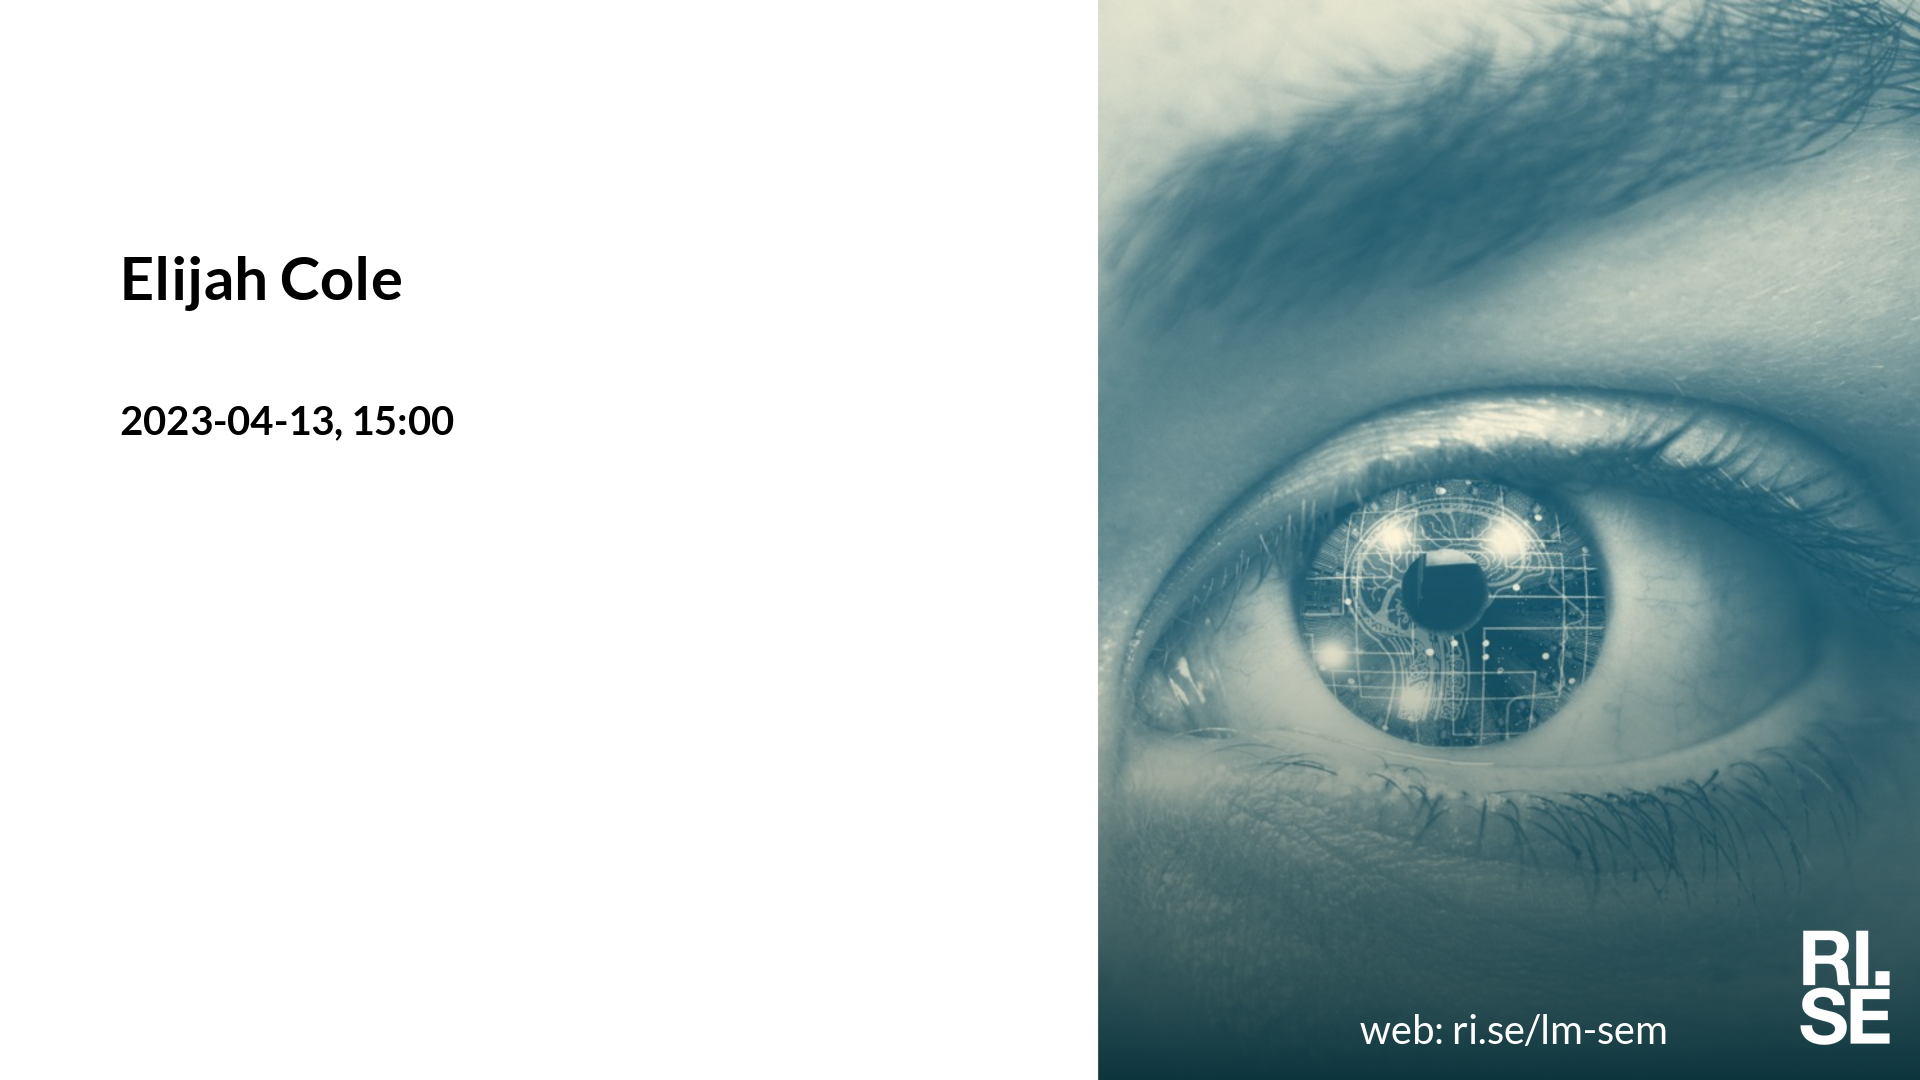
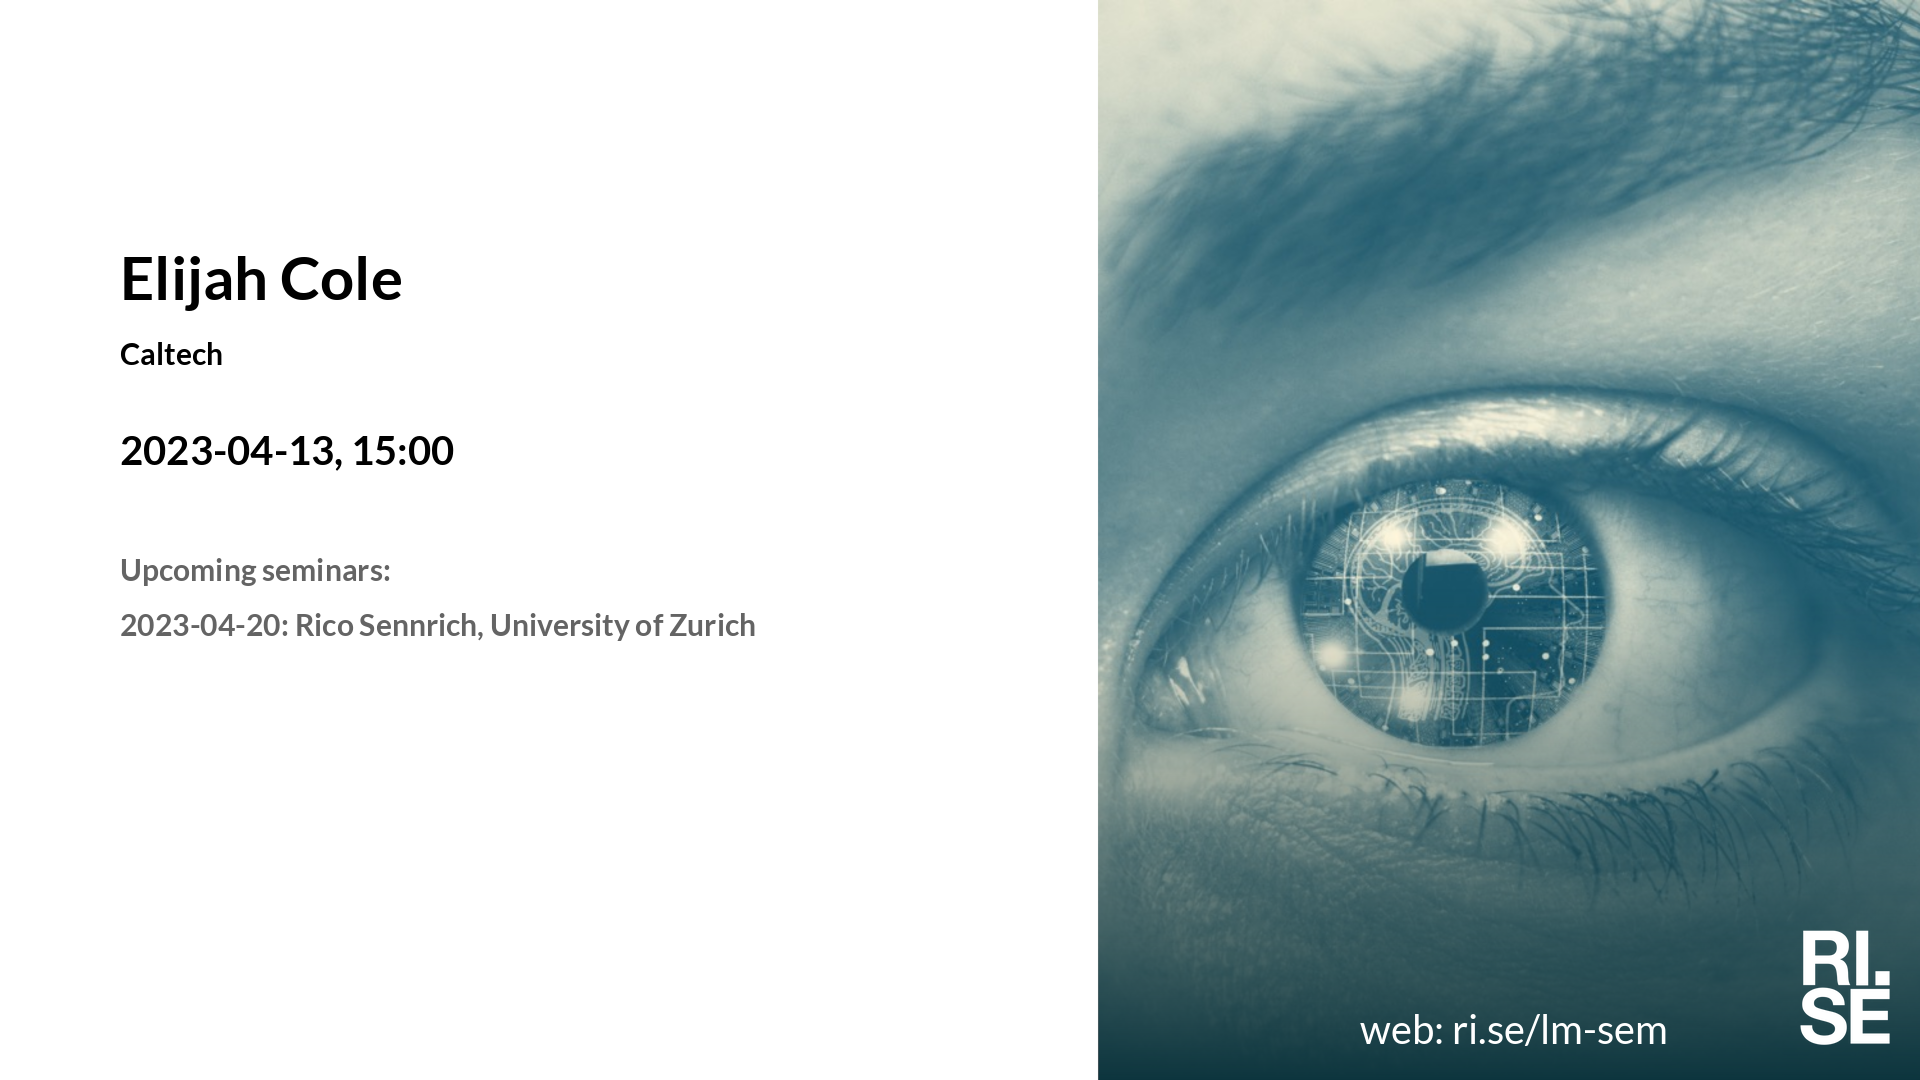
Updated plan on web site.

Changed region(s): [[0.0625, 0.5194, 0.375, 0.6111], [0.0625, 0.3667, 0.25, 0.4278], [0.0625, 0.3056, 0.125, 0.3361]]

diff --git a/lm/index.md b/lm/index.md
@@ -1,11 +1,10 @@
 <style type="text/css" scoped>
 td, th {border: 1px solid #ccc; padding: 0.6em;}
 table {border-collapse: collapse;}
-</style># Learning Machines Plan 2022-11-30
+</style># Learning Machines Plan 2022-12-04
 
 | date | speaker                                   | photo | shareable | meeting backdrop | youtube thumbnail | comment        |
 | ---- | ----------------------------------------- | ----- | ----- | ----- | ----- | -------------- |
-|  2022-12-01  |  [Sara Beery, MIT](2022-12-01.md)  |  [photo](photo-sara-beery.jpeg)  |  [social media ](social-media-sara-beery.png)  |  [meeting backdrop ](meeting-backdrop-sara-beery.png)  |  [youtube thumbnail ](youtube-thumbnail-sara-beery.png)  |  (confirmed)     |
 |  2022-12-08  |  [William Lidberg, Swedish University of Agricultural Sciences](2022-12-08.md)  |  [photo](photo-william-lidberg.jpg)  |  [social media ](social-media-william-lidberg.png)  |  [meeting backdrop ](meeting-backdrop-william-lidberg.png)  |  [youtube thumbnail ](youtube-thumbnail-william-lidberg.png)  |  (confirmed)     |
 | <span style="color:grey"> 2022-12-15 </span> | <span style="color:grey"> Erik G. ? </span> | <span style="color:grey">  </span> | <span style="color:grey">  </span> | <span style="color:grey">  </span> | <span style="color:grey">  </span> | <span style="color:grey"> (not confirmed) </span> |
 | <span style="color:red"> 2022-12-22 </span> | <span style="color:red"> Christmas </span> | <span style="color:red">  </span> | <span style="color:red">  </span> | <span style="color:red">  </span> | <span style="color:red">  </span> | <span style="color:red"> (cancelled) </span> |
@@ -17,14 +16,14 @@ table {border-collapse: collapse;}
 | <span style="color:grey"> 2023-02-02 </span> | <span style="color:grey"> Mathias N. ? </span> | <span style="color:grey">  </span> | <span style="color:grey">  </span> | <span style="color:grey">  </span> | <span style="color:grey">  </span> | <span style="color:grey"> (not confirmed) </span> |
 | <span style="color:grey"> 2023-02-09 </span> | <span style="color:grey"> Timnit G. ? </span> | <span style="color:grey">  </span> | <span style="color:grey">  </span> | <span style="color:grey">  </span> | <span style="color:grey">  </span> | <span style="color:grey"> (not confirmed) </span> |
 | <span style="color:red"> 2023-02-16 </span> | <span style="color:red"> Sportlov-GBG </span> | <span style="color:red">  </span> | <span style="color:red">  </span> | <span style="color:red">  </span> | <span style="color:red">  </span> | <span style="color:red"> (cancelled) </span> |
-| <span style="color:grey"> 2023-02-23 </span> | <span style="color:grey"> Alexander I. ? </span> | <span style="color:grey">  </span> | <span style="color:grey">  </span> | <span style="color:grey">  </span> | <span style="color:grey">  </span> | <span style="color:grey"> (not confirmed) </span> |
+|  2023-02-23  |  [Alexander Ilin, Aalto University](2023-02-23.md)  |    |  [social media ](social-media-alexander-ilin.png)  |  [meeting backdrop ](meeting-backdrop-alexander-ilin.png)  |  [youtube thumbnail ](youtube-thumbnail-alexander-ilin.png)  |  (confirmed)     |
 | <span style="color:red"> 2023-03-02 </span> | <span style="color:red"> Sportlov-STHLM </span> | <span style="color:red">  </span> | <span style="color:red">  </span> | <span style="color:red">  </span> | <span style="color:red">  </span> | <span style="color:red"> (cancelled) </span> |
 |  2023-03-09  |  [Shay Cohen, University of Edinburgh](2023-03-09.md)  |    |  [social media ](social-media-shay-cohen.png)  |  [meeting backdrop ](meeting-backdrop-shay-cohen.png)  |  [youtube thumbnail ](youtube-thumbnail-shay-cohen.png)  |  (confirmed)     |
 | <span style="color:purple"> 2023-03-16 </span> | <span style="color:purple"> *Up for grabs!!!* </span> | <span style="color:purple">  </span> | <span style="color:purple">  </span> | <span style="color:purple">  </span> | <span style="color:purple">  </span> | <span style="color:purple"> (not confirmed) </span> |
 | <span style="color:purple"> 2023-03-23 </span> | <span style="color:purple"> *Up for grabs!!!* </span> | <span style="color:purple">  </span> | <span style="color:purple">  </span> | <span style="color:purple">  </span> | <span style="color:purple">  </span> | <span style="color:purple"> (not confirmed) </span> |
 | <span style="color:purple"> 2023-03-30 </span> | <span style="color:purple"> *Up for grabs!!!* </span> | <span style="color:purple">  </span> | <span style="color:purple">  </span> | <span style="color:purple">  </span> | <span style="color:purple">  </span> | <span style="color:purple"> (not confirmed) </span> |
 | <span style="color:red"> 2023-04-06 </span> | <span style="color:red"> Påsklov/Skärtorsdag </span> | <span style="color:red">  </span> | <span style="color:red">  </span> | <span style="color:red">  </span> | <span style="color:red">  </span> | <span style="color:red"> (cancelled) </span> |
-|  2023-04-13  |  [Elijah Cole](2023-04-13.md)  |    |  [social media ](social-media-elijah-cole.png)  |  [meeting backdrop ](meeting-backdrop-elijah-cole.png)  |  [youtube thumbnail ](youtube-thumbnail-elijah-cole.png)  |  (confirmed)     |
+|  2023-04-13  |  [Elijah Cole, Caltech](2023-04-13.md)  |    |  [social media ](social-media-elijah-cole.png)  |  [meeting backdrop ](meeting-backdrop-elijah-cole.png)  |  [youtube thumbnail ](youtube-thumbnail-elijah-cole.png)  |  (confirmed)     |
 |  2023-04-20  |  [Rico Sennrich, University of Zurich](2023-04-20.md)  |  [photo](photo-rico-sennrich.jpg)  |  [social media ](social-media-rico-sennrich.png)  |  [meeting backdrop ](meeting-backdrop-rico-sennrich.png)  |  [youtube thumbnail ](youtube-thumbnail-rico-sennrich.png)  |  (confirmed)     |
 | <span style="color:purple"> 2023-04-27 </span> | <span style="color:purple"> *Up for grabs!!!* </span> | <span style="color:purple">  </span> | <span style="color:purple">  </span> | <span style="color:purple">  </span> | <span style="color:purple">  </span> | <span style="color:purple"> (not confirmed) </span> |
 | <span style="color:purple"> 2023-05-04 </span> | <span style="color:purple"> *Up for grabs!!!* </span> | <span style="color:purple">  </span> | <span style="color:purple">  </span> | <span style="color:purple">  </span> | <span style="color:purple">  </span> | <span style="color:purple"> (not confirmed) </span> |

diff --git a/lm/2023-02-23.md b/lm/2023-02-23.md
@@ -2,7 +2,7 @@ Welcome to this week's Learning Machines seminar.
 
 **Title:** 
 
-**Speaker:** Elijah Cole, Caltech
+**Speaker:** Alexander Ilin, Aalto University
 
 **Abstract:** 
 
@@ -14,6 +14,8 @@ Welcome to this week's Learning Machines seminar.
 
 **Upcoming seminars:**
 
+* 2023-03-09: Shay Cohen, University of Edinburgh
+* 2023-04-13: Elijah Cole, Caltech
 * 2023-04-20: Rico Sennrich, University of Zurich
 
 More information and coming seminars: [https://ri.se/lm-sem](https://ri.se/lm-sem)
